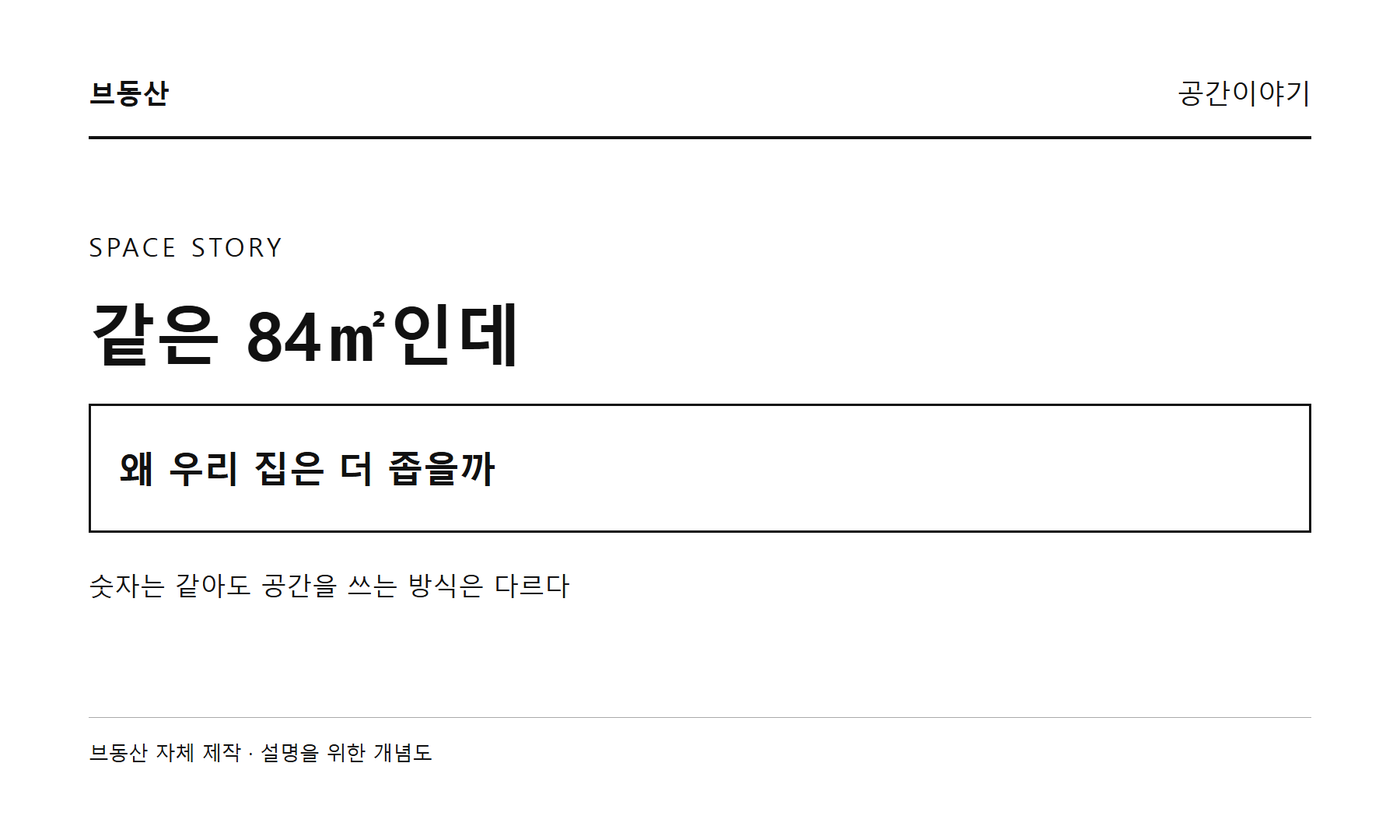
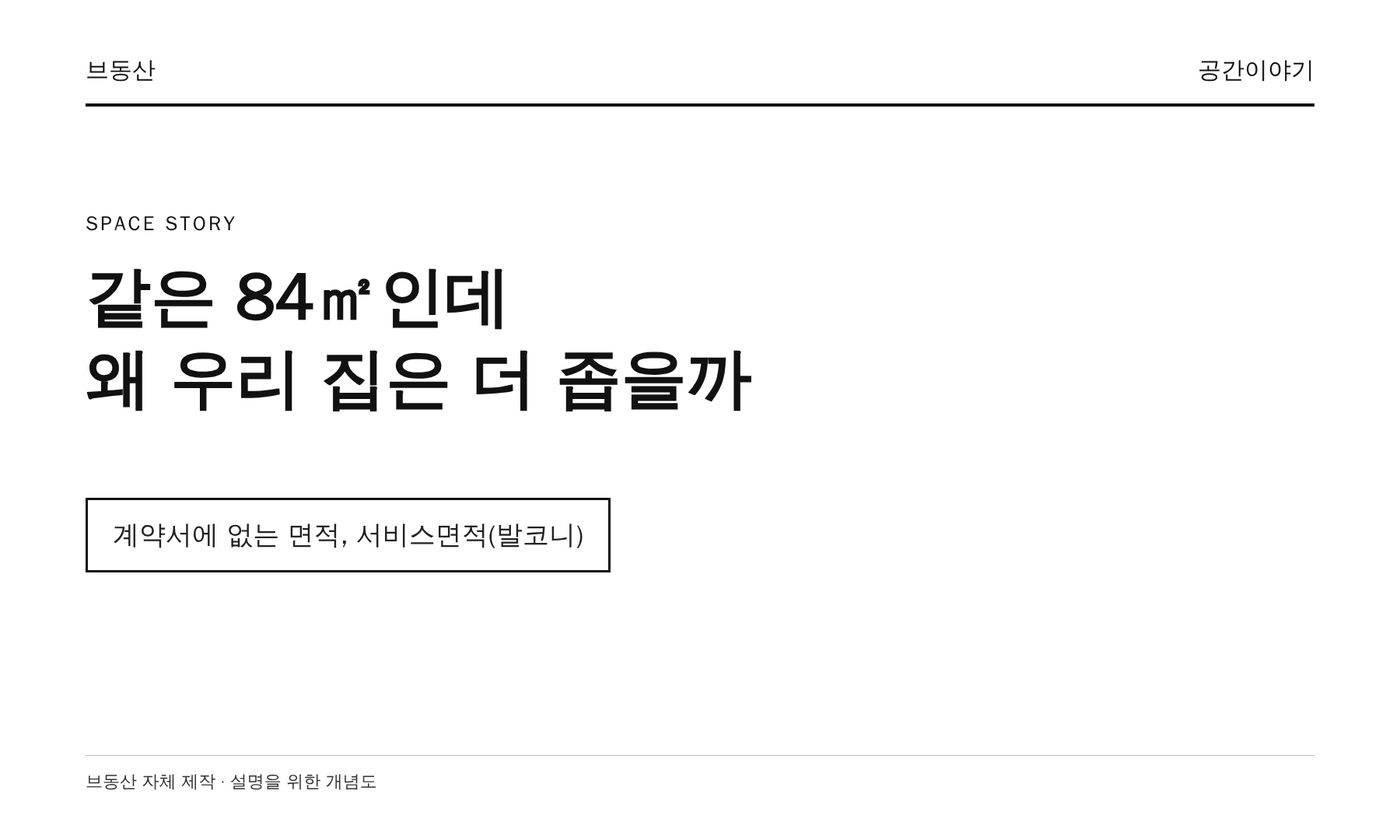
Rewrite same-84 space story around service area (balcony) and update Naver copy
Claude-Session: https://claude.ai/code/session_018qhGmvZYaq5WTE87hNjb3D

diff --git a/posts/same-84-different-space.html b/posts/same-84-different-space.html
@@ -1,4 +1,4 @@
-<!doctype html><html lang="ko"><head><meta charset="utf-8"><meta name="viewport" content="width=device-width,initial-scale=1"><meta name="google-adsense-account" content="ca-pub-2726871907348299"><link rel="canonical" href="https://www.brandongsan.com/posts/same-84-different-space.html"><meta property="og:type" content="article"><meta property="og:title" content="같은 84㎡인데 왜 우리 집은 더 좁을까"><meta property="og:image" content="https://www.brandongsan.com/posts/images/same-84-different-space/cover.png"><script async src="https://www.googletagmanager.com/gtag/js?id=G-7TD8E3J131"></script><script>window.dataLayer=window.dataLayer||[];function gtag(){dataLayer.push(arguments)}gtag('js',new Date());gtag('config','G-7TD8E3J131');</script><title>같은 84㎡인데 왜 우리 집은 더 좁을까 — 브동산</title><meta name="description" content="같은 84㎡도 다르게 느껴지는 이유를 전용면적, 발코니, 평면과 동선에서 살펴봅니다."><style>
+<!doctype html><html lang="ko"><head><meta charset="utf-8"><meta name="viewport" content="width=device-width,initial-scale=1"><meta name="google-adsense-account" content="ca-pub-2726871907348299"><link rel="canonical" href="https://www.brandongsan.com/posts/same-84-different-space.html"><meta property="og:type" content="article"><meta property="og:title" content="같은 84㎡인데 왜 우리 집은 더 좁을까"><meta property="og:image" content="https://www.brandongsan.com/posts/images/same-84-different-space/cover.png"><script async src="https://www.googletagmanager.com/gtag/js?id=G-7TD8E3J131"></script><script>window.dataLayer=window.dataLayer||[];function gtag(){dataLayer.push(arguments)}gtag('js',new Date());gtag('config','G-7TD8E3J131');</script><title>같은 84㎡인데 왜 우리 집은 더 좁을까 — 브동산</title><meta name="description" content="같은 전용 84㎡라도 계약서에 적히지 않는 서비스면적(발코니)에 따라 실제 쓰는 면적이 달라진다. 2면과 3면 발코니의 차이를 살펴본다."><style>
   @import url('https://fonts.googleapis.com/css2?family=Nanum+Gothic:wght@400;700;800&display=swap');
   :root{ --paper:#FFFFFF; --ink:#111111; --ink-soft:#555555; --ink-faint:#8A8A8A; --hair:#E3E3E3; --soft-bg:#FAFAFA; }
   *{ box-sizing:border-box; }
@@ -59,4 +59,34 @@
   .list-more{ margin-top:20px; text-align:center; }
   .btn-list{ display:inline-block; font-family:'Nanum Gothic'; font-weight:700; font-size:13px; color:var(--ink); border:1px solid var(--ink); padding:9px 20px; text-decoration:none; }
   @media(max-width:600px){ .summary-brief div{ grid-template-columns:1fr; gap:5px; padding:15px 2px; } .byline .tag{ margin-left:0; } }
-</style></head><body><div class="top-eyebrow"><div class="wrap"><a class="brand-mark" href="https://brandongsan.com/"><span class="bm-b">브</span><span class="bm-rest">동산</span></a><a class="list-btn" href="https://brandongsan.com/space-story.html">☰ 목록</a></div></div><div class="wrap"><div class="titleblock"><h1>같은 84㎡인데 왜 우리 집은 더 좁을까</h1></div><div class="byline"><span class="avatar">브</span><span class="who">서당개</span><span class="dot">·</span><span class="when">2026. 11. 5</span><span class="tag">공간이야기 No.002</span></div></div><div class="hairline"></div><div class="content"><div class="wrap"><div class="photo-block"><img src="images/same-84-different-space/cover.png" alt="브동산 자체 제작 표지"><div class="cap">브동산 자체 제작 표지</div></div><section><p class="lede">같은 84㎡라는데, 친구 집은 왜 우리 집보다 넓어 보일까? 평면도를 한 장씩 펼쳐 봤다.</p></section><section><h2>1. 같은 숫자가 같은 거실을 뜻할까</h2><p>친구 집도 우리 집도 84㎡. 그런데 식탁을 놓고 나니 우리 집이 더 비좁다. 같은 숫자인데 왜 다르게 느껴질까?</p><p>타입명만 보지 말고 모집공고의 정확한 전용면적을 보자. 84A와 84B의 소수점 아래 숫자가 다를 수 있다. 다만 작은 숫자 차이만으로 체감 차이를 전부 설명할 수는 없다.</p><div class="photo-block"><img src="images/same-84-different-space/area.png" alt="전용면적과 공급면적 관계를 나타낸 개념도. 공용면적은 실내 사용 면적이 아니다."><div class="cap">전용면적과 공급면적 관계를 나타낸 개념도. 공용면적은 실내 사용 면적이 아니다.</div></div></section><section><h2>2. 전용 84와 공급 84는 다른 말</h2><p>주택법 시행규칙은 공동주택의 주거전용면적을 외벽 내부선 기준으로 산정하고, 여러 세대가 함께 쓰는 공용면적을 제외한다. 세대 안의 복도와 건물의 공용 복도는 다르다.</p><p>공급면적은 보통 전용면적에 주거공용면적을 더한 숫자다. 같은 전용면적이어도 계단과 복도 등에 배분되는 주거공용면적에 따라 공급면적이 다를 수 있다. 그렇다고 공용면적 차이가 곧바로 실내 크기 차이가 되는 것은 아니다.</p><div class="photo-block"><img src="images/same-84-different-space/plan.png" alt="가상의 평면 배치 개념도. 실제 단지 도면이나 면적 비율이 아니다."><div class="cap">가상의 평면 배치 개념도. 실제 단지 도면이나 면적 비율이 아니다.</div></div></section><section><h2>3. 같은 면적도 나누는 방법이 다르다</h2><p>방과 거실, 욕실과 세대 내부 동선에 공간을 어떻게 배분하느냐에 따라 쓰임새가 달라진다. 복도가 길면 방을 지나지 않고 움직이기 편할 수 있지만, 거실 가구 배치에는 제약이 생길 수도 있다.</p><p>거실이 넓어 보이는 평면이 모두에게 좋은 것은 아니다. 방 크기와 독립성, 수납, 문을 열고 다니는 경로까지 가족의 생활 방식과 함께 살펴보자.</p><div class="photo-block"><img src="images/same-84-different-space/flow.png" alt="가상의 동선 개념도. 실제 평면이나 실측 데이터가 아니다."><div class="cap">가상의 동선 개념도. 실제 평면이나 실측 데이터가 아니다.</div></div></section><h3>실제 평면을 나란히 보면</h3><p>삼성물산 래미안 포레카운티의 84A와 84B는 모두 84㎡대지만 방과 거실, 주방의 배치가 다르다. 숫자가 같다고 같은 구조는 아니다. 아래는 공식 자료의 평면이며 옵션·발코니 구성과 동·호수에 따라 실제 시공은 다를 수 있다. 공용면적 차이를 실내 크기 차이로 해석하지 않는다.</p><div class="photo-block"><img src="images/same-84-different-space/raemian-84a.jpg" alt="래미안 포레카운티 84A 공식 평면도"><div class="cap">래미안 포레카운티 84A. 출처: 삼성물산 <a href="https://www.raemian.co.kr/sales/sub/jangwi1?menuSeq=3254">공식 평면정보</a>. 이미지의 저작권은 권리자에게 있다.</div></div><div class="photo-block"><img src="images/same-84-different-space/raemian-84b.jpg" alt="래미안 포레카운티 84B 공식 평면도"><div class="cap">래미안 포레카운티 84B. 출처: 삼성물산 공식 평면정보. 확장 옵션과 시공 범위는 별도 확인.</div></div><section><h2>4. 발코니 확장이 만드는 차이</h2><p>발코니를 확장한 집과 확장하지 않은 집은 전용면적 표기가 같아도 이용 공간의 구성과 체감이 다를 수 있다. 발코니 전체가 언제나 전용면적에서 제외된다거나, 확장하면 전부 전용면적에 더해진다고 말할 수는 없다.</p><p>바닥면적 산정은 법령의 기준과 예외, 설계도서에 따라 확인해야 한다. 계약 전 기본형과 확장형 도면, 선택 비용, 대피·설비 공간과 실제 시공 범위를 확인하자.</p><div class="photo-block"><img src="images/same-84-different-space/balcony.png" alt="확장 전후를 설명하는 가상 개념도. 법령상 면적 산정도나 시공 도면이 아니다."><div class="cap">확장 전후를 설명하는 가상 개념도. 법령상 면적 산정도나 시공 도면이 아니다.</div></div></section><section><h2>5. 평면도에서 꼭 볼 것</h2><p>숫자보다 중요한 것은 우리 집 가구와 생활이 그 안에 들어가는지다. 거실 폭과 침실 치수를 보고 소파·식탁·침대의 크기를 대입해 보자. 치수가 없으면 임의로 계산하지 말고 시행사에 확인한다.</p><p>창과 문, 붙박이장, 실외기실 및 대피 공간의 위치도 살핀다. 도면 속 가구는 이해를 돕는 표현일 수 있으므로 실제 가구 크기와 문이 열리는 범위를 별도로 재보는 편이 좋다.</p><div class="photo-block"><img src="images/same-84-different-space/checklist.png" alt="평면 확인 체크리스트. 단지별 도면과 계약 조건이 우선한다."><div class="cap">평면 확인 체크리스트. 단지별 도면과 계약 조건이 우선한다.</div></div></section><section><h2>결론: 숫자 하나보다 내 생활을 보자</h2><p>84㎡라는 숫자는 출발점이다. 정확한 전용면적에 더해 발코니의 확장 범위와 방의 배치, 가구가 놓일 자리까지 살펴보면 우리에게 맞는 집을 고르기가 조금 수월해진다.</p><p>직접 제작한 그림은 이해를 돕기 위한 가상의 개념도다. 특정 단지를 비교하거나 면적의 우열을 나타내지 않는다.</p><ul class="src"><li><a href="https://law.go.kr/lsLinkCommonInfo.do?chrClsCd=010202&lsJoLnkSeq=1017651793">주택법 시행규칙 제2조</a></li><li><a href="https://www.law.go.kr/lsLinkCommonInfo.do?lsJoLnkSeq=1030377409">주택공급에 관한 규칙 제21조</a></li><li><a href="https://law.go.kr/lsLinkCommonInfo.do?chrClsCd=010202&lspttninfSeq=105454">건축법 시행령 제119조</a></li><li><a href="https://www.law.go.kr/DRF/lawService.do?ID=341541&OC=unicpla&mobileYn=Y&target=expc&type=HTML">법제처 해석례 25-0224</a></li></ul></section><section id="related"><h2>공간이야기의 다른 포스팅</h2><div class="related-list"><p><a href="https://www.brandongsan.com/posts/balcony-story.html">우리 집 베란다는 어디로 사라졌을까</a> · 공간이야기 No.003</p><p><a href="https://www.brandongsan.com/posts/why-84-and-59-sqm.html">85도 60도 아닌 84와 59 — 국민평형 숫자는 어디서 나왔을까</a></p></div><div class="list-more"><a class="btn-list" href="https://brandongsan.com/space-story.html">공간이야기 목록 전체보기</a></div></section></div></div><footer><div class="wrap"><div class="hairline"></div><p>본 글은 공개 자료를 바탕으로 작성한 정보 제공 콘텐츠이며 투자 권유나 매수 대행이 아니다. 법령과 개별 도면·계약 조건은 변경될 수 있으므로 계약 전 원문 및 관계기관에서 확인해야 한다. 자체 제작 개념도 외 평면도 출처는 삼성물산이다.</p></div></footer></body></html>
+</style></head><body><div class="top-eyebrow"><div class="wrap"><a class="brand-mark" href="https://brandongsan.com/"><span class="bm-b">브</span><span class="bm-rest">동산</span></a><a class="list-btn" href="https://brandongsan.com/space-story.html">☰ 목록</a></div></div><div class="wrap"><div class="titleblock"><h1>같은 84㎡인데 왜 우리 집은 더 좁을까</h1></div><div class="byline"><span class="avatar">브</span><span class="who">서당개</span><span class="dot">·</span><span class="when">2026. 11. 5</span><span class="tag">공간이야기 No.002</span></div></div><div class="hairline"></div><div class="content"><div class="wrap"><div class="photo-block"><img src="images/same-84-different-space/cover.png" alt="같은 84㎡인데 왜 우리 집은 더 좁을까 표지" style="width:100%;display:block;"><div class="cap">브동산 자체 제작 표지</div></div>
+<section><p class="lede">같은 84㎡라는데 친구 집에 가면 왜 더 넓게 느껴질까? 이유는 가구도, 인테리어도 아닌 계약서에 적히지 않는 면적에 있었다.</p></section>
+<section><h2>1. 계약서에는 ‘전용 84, 공급 11x’만 적힌다</h2>
+<p>분양 공고문과 계약서에서 우리가 보는 면적은 전용면적, 공급면적, 계약면적이다. 전용면적은 세대 안에서 우리 가족이 독점해서 쓰는 면적이고, 공급면적은 여기에 계단·복도 같은 주거공용면적을 더한 값이다. 계약면적은 공급면적에 지하주차장 등 기타공용면적까지 더한 값이다.</p>
+<p>이 세 숫자 어디에도 발코니는 없다. 발코니는 전용면적에서 빠지고, 공급·계약면적에도 들어가지 않는다. 이 면적을 업계에서는 서비스면적이라 부른다. 이코노미스트의 2018년 기사는 서비스면적을 “분양계약서 어디에도 나타나지 않는 면적”이라고 설명한다.</p>
+<div class="photo-block"><img src="images/same-84-different-space/contract.png" alt="계약서에 적히는 면적과 적히지 않는 면적을 비교한 개념도" style="width:100%;display:block;"><div class="cap">계약서에 적히는 면적과 숫자로 적히지 않는 면적의 관계. 면적 비율은 임의다. 브동산 자체 제작.</div></div>
+<p>그래서 실제로 우리가 쓰는 면적은 <b>전용 84 + 서비스면적(발코니)</b>인데, 이 합계는 계약서 어디에서도 확인할 수 없다.</p></section>
+<section><h2>2. 발코니는 왜 면적에서 빠질까</h2>
+<p>건축법 시행령은 발코니를 건축물의 내부와 외부를 잇는 완충공간으로 정의하고, 기준에 맞는 주택의 발코니는 거실·침실·창고 등으로 쓸 수 있게 허용한다. 바닥면적을 셀 때는 발코니 같은 노대 면적에서 가장 긴 외벽 길이에 1.5m를 곱한 만큼을 빼서 계산한다. 자세한 산식은 <a href="https://www.brandongsan.com/posts/balcony-story.html">우리 집 베란다는 어디로 사라졌을까</a>에서 다뤘다.</p>
+<p>핵심은 발코니가 계약서의 면적 항목이 아니라는 점이다. 확장하면 방이나 거실처럼 쓸 수 있는데도 전용면적이 늘어나지는 않는다. 그래서 같은 전용 84㎡라도 발코니가 얼마나 있느냐에 따라 실제 쓰는 면적이 달라지고, 그 차이는 계약서의 숫자로는 비교되지 않는다.</p></section>
+<section><h2>3. 건설사가 발코니를 얼마나 확보하느냐</h2>
+<p>발코니 면적은 평면 설계가 정한다. 전면과 후면에만 발코니가 붙는 2면 구조가 있고, 여기에 측면을 하나 더해 발코니를 최대한 확보하는 3면 구조가 있다. 아파트 전면의 기둥과 기둥 사이를 뜻하는 베이(Bay) 수를 늘려도 집이 가로로 길어져 발코니 면적이 커진다. 이코노미스트는 베이 수를 늘리는 평면에는 설계 노하우가 필요하다고 짚었다.</p>
+<div class="photo-block"><img src="images/same-84-different-space/bay.png" alt="2면 발코니와 3면 발코니를 단순화한 가상 개념도" style="width:100%;display:block;"><div class="cap">평면 구조를 단순화한 가상 개념도. 점선 영역이 서비스면적(발코니)이다. 실제 평면과 면적 비율은 다르다. 브동산 자체 제작.</div></div>
+<p>데일리안은 2026년 8월 기사에서 3면 발코니를 적용하면 2면 구조보다 서비스면적이 더 많이 나온다고 설명했다. 같은 ‘84’라는 이름을 달고 있어도 설계에서부터 사는 공간이 달라지는 것이다.</p></section>
+<section><h2>4. 숫자로 보면 얼마나 다를까</h2>
+<p>기사에 나온 사례 수치를 모아 보면 다음과 같다.</p>
+<ul class="plain"><li>분양 상담에서 “84㎡형은 서비스면적만 40㎡ 정도”라는 설명을 들을 수 있다(이코노미스트, 2018).</li><li>동탄2신도시 KCC스위첸 84㎡형 B타입은 서비스면적이 50.5㎡로 전용면적의 60% 수준이라고 소개됐다(이코노미스트, 2018). 같은 기사는 대개 전용면적의 30~50%를 서비스면적으로 받을 수 있다고 정리했다.</li><li>고양 킨텍스 원시티 2블록의 3면 발코니 일부 84㎡ 타입은 서비스면적이 최대 57㎡(약 17평)이고, 광주 챔피언스시티 1차의 84㎡는 최대 54.39㎡(약 16평)라고 보도됐다(데일리안, 2026.8).</li></ul>
+<div class="photo-block"><img src="images/same-84-different-space/stack.png" alt="전용 84에 서비스면적 40과 57을 더한 막대 비교" style="width:100%;display:block;"><div class="cap">보도 사례 수치를 단순 합산한 설명용 그림. 서로 다른 단지의 수치이며 같은 단지 비교가 아니다. 브동산 자체 제작.</div></div>
+<p>단순 합산하면 서비스면적 40㎡ 사례는 약 124㎡, 57㎡ 사례는 약 141㎡다. 둘 다 계약서에는 ‘전용 84’로 적히지만 사는 면적은 약 17㎡, 평수로 5평쯤 차이가 난다. 3면 발코니의 84가 넓어 보이는 것이 아니라 실제로 더 넓다는 뜻이다.</p>
+<p>다만 이 수치는 분양 측 설명이 섞인 보도 사례이고 단지마다 다르다. 발코니가 전부 거실이나 방이 되는 것도 아니다. 대피공간이나 실외기실처럼 확장할 수 없는 부분은 남는다. 확장한 이후 기준의 최대치로 이해하는 편이 정확하다.</p></section>
+<section><h2>5. 서비스면적은 정말 공짜일까</h2>
+<p>면적 기준으로는 공짜처럼 보이지만 이코노미스트는 서비스면적의 비용이 분양가와 발코니 확장비에 사실상 반영된다고 설명한다. 발코니 확장비는 84㎡형 기준 800만~1,300만원 정도로 소개됐는데, 2018년 기사 수치라 현재 금액은 단지별 공고문에서 확인해야 한다.</p>
+<p>하나금융연구소의 2023년 보고서 「발코니의 경제학」은 발코니 면적을 15㎡에서 45㎡로 늘리면 집의 가치가 약 1억 4,500만원 오르는 효과가 있다고 추정했다(데일리안 인용). 서비스면적이 공짜가 아니라 값어치가 있는 면적이라는 시각이다.</p></section>
+<section><h2>6. 청약 전에 확인할 것</h2>
+<p>공고문의 면적표에는 서비스면적이 나오지 않는 경우가 많다. 그래서 다음 순서로 직접 확인하자.</p>
+<ul class="plain"><li>같은 84 타입이 2면인지 3면(또는 4Bay)인지 공식 평면도에서 확인한다.</li><li>분양 홈페이지와 카탈로그에 서비스면적이 표기돼 있는지, 없다면 시행사에 문의한다.</li><li>발코니 확장비와 확장 가능 범위, 확장할 수 없는 공간(대피공간·실외기실)을 확인한다.</li></ul>
+<p>같은 84를 비교할 때는 전용면적 옆에 서비스면적을 함께 적어 두고 보면 비교가 한결 정확해진다.</p></section>
+<section><h2>결론: 계약서의 84 말고 실제 쓰는 면적을 보자</h2>
+<p>전용 84는 같아도 발코니를 얼마나 확보했느냐에 따라 실제 쓰는 면적은 다르다. 그 차이는 계약서 어디에도 적히지 않아 대부분이 모르고 지나간다. 다음에 84㎡ 평면도를 볼 때는 전용 숫자 옆에 서비스면적이 얼마인지부터 확인해 보자.</p>
+<ul class="src"><li><a href="https://economist.co.kr/2018/01/28/stock/stockNormal/319837.html">이코노미스트 「서비스 면적은 공짜?」 (2018.1.28)</a></li><li><a href="https://www.dailian.co.kr/news/view/1680663">데일리안 「84㎡ 샀는데 16평이 덤」 (2026.8.23)</a></li><li><a href="https://law.go.kr/lsLinkCommonInfo.do?chrClsCd=010202&lsJoLnkSeq=1017651793">주택법 시행규칙 제2조</a></li><li><a href="https://law.go.kr/lsLinkCommonInfo.do?chrClsCd=010202&lspttninfSeq=105454">건축법 시행령 제119조</a></li></ul></section>
+<section id="related"><h2>공간이야기의 다른 포스팅</h2><div class="related-list"><p><a href="https://www.brandongsan.com/posts/balcony-story.html">우리 집 베란다는 어디로 사라졌을까</a> · 공간이야기 No.003</p><p><a href="https://www.brandongsan.com/posts/why-84-and-59-sqm.html">85도 60도 아닌 84와 59 — 국민평형 숫자는 어디서 나왔을까</a></p></div><div class="list-more"><a class="btn-list" href="https://brandongsan.com/space-story.html">공간이야기 목록 전체보기</a></div></section></div></div><footer><div class="wrap"><div class="hairline"></div><p>본 글은 공개 자료를 바탕으로 작성한 정보 제공 콘텐츠이며 투자 권유나 매수 대행이 아니다. 법령과 개별 도면·계약 조건은 변경될 수 있으므로 계약 전 원문 및 관계기관에서 확인해야 한다. 도식은 브동산 자체 제작이다.</p></div></footer></body></html>

diff --git a/naver-html/same-84-different-space.html b/naver-html/same-84-different-space.html
@@ -1,8 +1,8 @@
 <!doctype html><html lang="ko"><head><meta charset="utf-8"><meta name="robots" content="noindex,nofollow"><!--
 slug: same-84-different-space
-title: 같은 84㎡인데 왜 우리 집은 더 좁을까 | 평면과 발코니 살펴보기
+title: 같은 84㎡인데 왜 우리 집은 더 좁을까 | 계약서에 없는 서비스면적 이야기
 category: 공간
 naver_category: 공간이야기
-tags: 같은84,84평면,전용면적,공급면적,아파트평면도,발코니확장,아파트구조,아파트동선,평면비교,아파트인테리어,집고르기,공간이야기,부동산상식
+tags: 같은84,서비스면적,발코니확장,3면발코니,전용면적,공급면적,계약면적,4베이,아파트평면도,국민평형,아파트청약,공간이야기,부동산상식
 cover_candidates: cover.png
---><title>같은 84㎡인데 왜 우리 집은 더 좁을까 — 네이버 복사용</title><style>body{font-family:'Malgun Gothic',sans-serif;line-height:1.8;font-size:16px;color:#000000;max-width:720px;margin:auto;padding:24px}h1{font-size:26px}h2{font-size:21px}</style></head><body><p style="color:#000000;">브동산 · 서당개 · 공간이야기 No.002 · 2026. 11. 5</p><h1 style="color:#000000;">같은 84㎡인데 왜 우리 집은 더 좁을까 | 평면과 발코니 살펴보기</h1><p style="color:#000000;"><img src="https://www.brandongsan.com/posts/images/same-84-different-space/cover.png" alt="같은 84㎡의 공간 이야기 표지" style="width:100%;display:block;"></p><p style="color:#000000;font-size:13px;"><b style="color:#000000;">이미지 01 ·</b> 브동산 자체 제작 표지</p><p style="color:#000000;">소파를 놓을 땐 딱 맞았는데, 식탁까지 들이고 나니 지나다니기 답답하다. 분명 같은 84㎡라던 옆집은 어째서 더 여유로워 보일까?</p><p style="color:#000000;">집을 볼 때 숫자 하나만 기억하면 놓치기 쉬운 것들이 있다. 이번에는 집의 크기를 적은 숫자부터 가구가 놓이는 자리까지 차례로 살펴봤다.</p><p style="color:#000000;">&nbsp;</p><h2 style="color:#000000;">1. 먼저 숫자의 이름부터 확인하자</h2><p style="color:#000000;">집을 소개받을 때는 84라는 숫자 앞에 무엇이 붙었는지부터 물어보자. 전용면적과 공급면적은 같은 말이 아니다. 일반적으로 공급면적은 전용면적에 주거공용면적을 더한 값이다.</p><p style="color:#000000;">계단이나 공동 복도에 해당하는 주거공용면적이 달라지면 전용면적이 같더라도 공급면적은 달라질 수 있다. 공용 부분의 숫자가 더 크다고 해서 세대 안에서 쓸 수 있는 공간이 그만큼 넓어진다는 뜻은 아니다.</p><p style="color:#000000;"><img src="https://www.brandongsan.com/posts/images/same-84-different-space/area.png" alt="전용면적과 공급면적 관계를 나타낸 개념도. 공용면적은 실내 사용 면적이 아니다." style="width:100%;display:block;"></p><p style="color:#000000;font-size:13px;"><b style="color:#000000;">이미지 02 ·</b> 전용면적과 공급면적 관계를 나타낸 개념도. 공용면적은 실내 사용 면적이 아니다.</p><p style="color:#000000;">공동주택의 주거전용면적은 외벽의 내부선을 기준으로 산정하며, 둘 이상의 세대가 함께 사용하는 공용 부분은 제외한다. 집 안에 있는 복도와 이웃과 함께 쓰는 복도도 구별해야 한다. 근거는 주택법 시행규칙 제2조다.</p><p style="color:#000000;">&nbsp;</p><h2 style="color:#000000;">2. 84A와 84B를 볼 때 놓치기 쉬운 것</h2><p style="color:#000000;">같은 84라는 이름이 붙은 타입이라도 모집공고에 적힌 전용면적의 소수점 이하는 서로 다를 수 있다. 우선 각각의 정확한 숫자를 나란히 확인하자. 다만 소수점 차이만으로 생활하면서 느끼는 넓이의 차이를 모두 설명할 수는 없다.</p><p style="color:#000000;">다음에는 방과 거실이 어디에 놓였는지 보자. 같은 크기의 면적 안에서도 공간을 나누는 방법은 여러 가지다. 아래 그림은 그 차이를 이해하기 위한 가상의 예시일 뿐, 특정 아파트의 평면을 비교한 것은 아니다.</p><p style="color:#000000;"><img src="https://www.brandongsan.com/posts/images/same-84-different-space/plan.png" alt="가상의 평면 배치 개념도. 실제 단지 도면이나 면적 비율이 아니다." style="width:100%;display:block;"></p><p style="color:#000000;font-size:13px;"><b style="color:#000000;">이미지 03 ·</b> 가상의 평면 배치 개념도. 실제 단지 도면이나 면적 비율이 아니다.</p><p style="color:#000000;">&nbsp;</p><h2 style="color:#000000;">3. 집 안을 한 바퀴 걸어보자</h2><p style="color:#000000;">도면 위에 현관에서 거실로, 거실에서 각 방으로 움직이는 길을 그려 보면 어떨까. 방을 지나지 않고 오갈 수 있는 복도는 사생활에 도움이 될 수 있다. 반면 지나갈 자리를 남겨야 하므로 가구를 둘 수 있는 위치는 달라질 수 있다.</p><p style="color:#000000;">무조건 복도가 짧은 집이나 거실이 커 보이는 집이 정답인 것은 아니다. 누가 어떤 방을 쓰는지, 수납이 얼마나 필요한지, 문을 열었을 때 서로 부딪히지 않는지에 따라 편한 구조가 달라진다.</p><p style="color:#000000;"><img src="https://www.brandongsan.com/posts/images/same-84-different-space/flow.png" alt="가상의 동선 개념도. 실제 평면이나 실측 데이터가 아니다." style="width:100%;display:block;"></p><p style="color:#000000;font-size:13px;"><b style="color:#000000;">이미지 04 ·</b> 가상의 동선 개념도. 실제 평면이나 실측 데이터가 아니다.</p><p style="color:#000000;">&nbsp;</p><h2 style="color:#000000;">4. 창가 쪽을 볼 때는 확장 여부도 함께</h2><p style="color:#000000;">평면을 비교할 때 기본형과 확장형을 섞어 놓으면 인상이 달라질 수 있다. 전용면적 표기가 같은 집이라도 발코니를 어떻게 사용하고 확장했는지에 따라 이용 공간의 구성과 체감이 달라질 수 있어서다.</p><p style="color:#000000;">여기서 한 가지 주의할 점. 발코니가 모두 전용면적에서 빠진다거나, 확장한 면적이 모두 전용면적에 더해진다고 한마디로 정리할 수는 없다. 바닥면적 산정의 법령상 기준과 예외, 해당 설계도서를 살펴야 한다.</p><p style="color:#000000;"><img src="https://www.brandongsan.com/posts/images/same-84-different-space/balcony.png" alt="확장 전후를 설명하는 가상 개념도. 법령상 면적 산정도나 시공 도면이 아니다." style="width:100%;display:block;"></p><p style="color:#000000;font-size:13px;"><b style="color:#000000;">이미지 05 ·</b> 확장 전후를 설명하는 가상 개념도. 법령상 면적 산정도나 시공 도면이 아니다.</p><p style="color:#000000;">실제로 계약할 때는 확장형 도면뿐 아니라 옵션 비용과 시공 범위, 대피 공간과 설비 공간도 확인해 두자. 가능한 구조 변경의 범위는 해당 주택의 조건과 관련 기준에 따라 다르다.</p><p style="color:#000000;">&nbsp;</p><h2 style="color:#000000;">5. 마지막은 우리 집 가구로 확인하기</h2><p style="color:#000000;">마음에 드는 도면을 찾았다면 소파와 식탁, 침대가 들어갈 자리를 먼저 짚어 보자. 거실과 방의 치수가 있으면 실제 가구 크기를 대입하고, 치수가 빠져 있다면 추정하지 말고 시행사에 문의하는 편이 낫다.</p><p style="color:#000000;">문을 여닫을 공간과 창의 위치, 붙박이장, 실외기실과 대피 공간도 함께 살펴보자. 도면에 그려진 가구 모양만 보고 실제 가구가 꼭 들어갈 것이라고 판단하지 않는 것이 좋다.</p><p style="color:#000000;"><img src="https://www.brandongsan.com/posts/images/same-84-different-space/checklist.png" alt="평면 확인 체크리스트. 단지별 도면과 계약 조건이 우선한다." style="width:100%;display:block;"></p><p style="color:#000000;font-size:13px;"><b style="color:#000000;">이미지 06 ·</b> 평면 확인 체크리스트. 단지별 도면과 계약 조건이 우선한다.</p><p style="color:#000000;">결국 같은 84㎡를 볼 때 필요한 질문은 “어느 쪽이 더 넓지?”에서 한 걸음 더 나아간다. “우리 가족의 생활이 어느 쪽에 더 잘 맞지?”까지 물어보는 것이다.</p><p style="color:#000000;">이 글의 그림은 이해를 돕기 위한 가상 개념도다. 특정 단지의 실제 도면이나 면적 비율을 나타내지 않으며, 실제 비교는 모집공고와 해당 타입의 공식 도면을 기준으로 해야 한다.</p><p style="color:#000000;"><b style="color:#000000;">자료 출처</b></p><p style="color:#000000;"><a style="color:#000000;" href="https://law.go.kr/lsLinkCommonInfo.do?chrClsCd=010202&lsJoLnkSeq=1017651793">주택법 시행규칙 제2조</a></p><p style="color:#000000;"><a style="color:#000000;" href="https://www.law.go.kr/lsLinkCommonInfo.do?lsJoLnkSeq=1030377409">주택공급에 관한 규칙 제21조</a></p><p style="color:#000000;"><a style="color:#000000;" href="https://law.go.kr/lsLinkCommonInfo.do?chrClsCd=010202&lspttninfSeq=105454">건축법 시행령 제119조</a></p><p style="color:#000000;"><a style="color:#000000;" href="https://www.law.go.kr/DRF/lawService.do?ID=341541&OC=unicpla&mobileYn=Y&target=expc&type=HTML">법제처 해석례 25-0224</a></p><p style="color:#000000;">법령과 실제 계약 조건은 변경될 수 있으므로 입주자모집공고, 설계도서와 관계기관을 통해 확인해야 한다.</p></body></html>
+--><title>같은 84㎡인데 왜 우리 집은 더 좁을까 | 계약서에 없는 서비스면적 이야기 — 네이버 복사용</title><style>body{font-family:'Malgun Gothic',sans-serif;line-height:1.8;font-size:16px;color:#000000;max-width:720px;margin:auto;padding:24px}h1{font-size:26px}h2{font-size:21px}</style></head><body><p style="color:#000000;">브동산 · 서당개 · 공간이야기 No.002 · 2026. 11. 5</p><h1 style="color:#000000;">같은 84㎡인데 왜 우리 집은 더 좁을까 | 계약서에 없는 서비스면적 이야기</h1><p style="color:#000000;"><img src="https://www.brandongsan.com/posts/images/same-84-different-space/cover.png" alt="같은 84㎡의 서비스면적 이야기 표지" style="width:100%;display:block;"></p><p style="color:#000000;font-size:13px;"><b style="color:#000000;">이미지 01 ·</b> 브동산 자체 제작 표지</p><p style="color:#000000;">친구 집에 놀러 갔더니 우리 집과 똑같이 84㎡인데도 훨씬 시원하게 트여 있다. 도면에 적힌 숫자는 같은데 이런 차이는 어디서 생길까?</p><p style="color:#000000;">답은 계약서에 적히지 않는 면적에 있다. 이번에는 전용면적 옆에 따라붙는 서비스면적, 바로 발코니 이야기를 정리했다.</p><p style="color:#000000;">&nbsp;</p><h2 style="color:#000000;">1. 계약서에는 전용 84와 공급면적만 나온다</h2><p style="color:#000000;">분양 공고문과 계약서에서 볼 수 있는 숫자는 전용면적, 공급면적, 계약면적 세 가지다. 전용면적은 우리 가족이 오롯이 쓰는 세대 안쪽의 면적이다. 여기에 계단·복도 같은 주거공용면적을 더하면 공급면적이 되고, 지하주차장 등 기타공용면적까지 더하면 계약면적이 된다.</p><p style="color:#000000;">그런데 이 세 숫자에는 발코니가 한 칸도 들어가지 않는다. 발코니는 전용면적에서도, 공급·계약면적에서도 빠진다. 이렇게 빠지는 면적을 서비스면적이라고 부른다. 이코노미스트(2018)는 서비스면적을 분양계약서 어디에도 나타나지 않는 면적이라고 소개했다.</p><p style="color:#000000;"><img src="https://www.brandongsan.com/posts/images/same-84-different-space/contract.png" alt="계약서에 적히는 면적과 적히지 않는 면적을 비교한 개념도" style="width:100%;display:block;"></p><p style="color:#000000;font-size:13px;"><b style="color:#000000;">이미지 02 ·</b> 계약서에 적히는 면적과 숫자로 적히지 않는 면적의 관계. 면적 비율은 임의다.</p><p style="color:#000000;">정리하면 우리가 실제로 쓰는 면적은 전용 84에 서비스면적을 더한 값이다. 하지만 이 합계는 어느 서류에서도 찾을 수 없다.</p><p style="color:#000000;">&nbsp;</p><h2 style="color:#000000;">2. 발코니는 왜 면적 숫자에서 빠졌을까</h2><p style="color:#000000;">건축법 시행령은 발코니를 집 안과 밖 사이의 완충공간으로 본다. 기준에 맞으면 거실이나 침실, 창고로 쓰는 것도 허용한다. 바닥면적을 계산할 때도 노대 면적에서 가장 긴 외벽 길이에 1.5m를 곱한 만큼을 덜어낸다. 이 산식은 브동산의 「우리 집 베란다는 어디로 사라졌을까」에 따로 정리해 두었다.</p><p style="color:#000000;">중요한 건 확장해서 방처럼 써도 전용면적 숫자는 그대로라는 점이다. 그러니 같은 전용 84㎡끼리 놓고 봐도 발코니가 큰 집과 작은 집은 실제 쓰는 공간이 달라진다. 그 차이는 계약서만 봐서는 알 길이 없다.</p><p style="color:#000000;">&nbsp;</p><h2 style="color:#000000;">3. 같은 84라도 발코니는 설계가 정한다</h2><p style="color:#000000;">발코니가 전면과 후면에만 붙은 2면 구조가 있고, 측면에도 하나 더 낸 3면 구조가 있다. 아파트 전면에서 기둥과 기둥 사이를 세는 단위인 베이(Bay) 수를 늘려도 집이 옆으로 길어지면서 발코니가 커진다. 이코노미스트는 이런 평면에는 설계 노하우가 필요하다고 덧붙였다.</p><p style="color:#000000;"><img src="https://www.brandongsan.com/posts/images/same-84-different-space/bay.png" alt="2면 발코니와 3면 발코니를 단순화한 가상 개념도" style="width:100%;display:block;"></p><p style="color:#000000;font-size:13px;"><b style="color:#000000;">이미지 03 ·</b> 평면 구조를 단순화한 가상 개념도. 점선 영역이 서비스면적(발코니)이다. 실제 평면과 면적 비율은 다르다.</p><p style="color:#000000;">데일리안(2026.8)도 3면 발코니를 적용하면 2면 구조보다 서비스면적이 더 생긴다고 전했다. 이름은 똑같이 84여도 설계 단계에서 이미 사는 공간이 갈린다는 이야기다.</p><p style="color:#000000;">&nbsp;</p><h2 style="color:#000000;">4. 기사 속 사례를 숫자로 옮겨 보면</h2><p style="color:#000000;">보도에 나온 서비스면적 사례는 다음과 같다.</p><p style="color:#000000;">· 분양 상담에서 “84㎡형은 서비스면적만 40㎡ 정도”라고 안내하는 경우가 있다(이코노미스트, 2018).</p><p style="color:#000000;">· 동탄2신도시 KCC스위첸 84㎡형 B타입은 서비스면적이 50.5㎡로, 전용면적의 60% 수준으로 소개됐다. 같은 기사는 보통 전용면적의 30~50%를 서비스면적으로 받을 수 있다고 정리했다.</p><p style="color:#000000;">· 고양 킨텍스 원시티 2블록의 3면 발코니 일부 84㎡ 타입은 최대 57㎡(약 17평), 광주 챔피언스시티 1차 84㎡는 최대 54.39㎡(약 16평)로 보도됐다(데일리안, 2026.8).</p><p style="color:#000000;"><img src="https://www.brandongsan.com/posts/images/same-84-different-space/stack.png" alt="전용 84에 서비스면적 40과 57을 더한 막대 비교" style="width:100%;display:block;"></p><p style="color:#000000;font-size:13px;"><b style="color:#000000;">이미지 04 ·</b> 보도 사례 수치를 단순 합산한 설명용 그림. 서로 다른 단지의 수치이며 같은 단지 비교가 아니다.</p><p style="color:#000000;">이 사례들을 그대로 더하면 서비스면적 40㎡일 때 약 124㎡, 57㎡일 때 약 141㎡다. 계약서에는 둘 다 전용 84로 적히지만 쓰는 면적은 17㎡, 평수로 5평쯤 벌어진다. 3면 발코니의 84가 넓어 보이는 정도가 아니라 실제로 더 넓은 이유다.</p><p style="color:#000000;">단, 단지와 타입마다 다르고 분양 측 설명이 섞인 수치다. 대피공간이나 실외기실처럼 확장이 안 되는 곳도 남아서 발코니 전부가 거실이 되는 것은 아니다. 확장을 마쳤을 때의 최대치로 이해하는 편이 맞다.</p><p style="color:#000000;">&nbsp;</p><h2 style="color:#000000;">5. 서비스면적은 정말 덤일까</h2><p style="color:#000000;">이코노미스트는 서비스면적의 값이 분양가와 발코니 확장비에 사실상 들어가 있다고 풀이한다. 확장비는 84㎡형 기준 800만~1,300만원 정도로 소개됐다. 2018년 기사 수치이므로 현재 금액은 단지별 공고문으로 확인해야 한다.</p><p style="color:#000000;">하나금융연구소가 2023년에 낸 「발코니의 경제학」은 발코니를 15㎡에서 45㎡로 늘리면 집값에 약 1억 4,500만원의 효과가 있다고 추정했다(데일리안 인용). 서비스면적은 덤이 아니라 값어치가 있는 면적이라는 얘기다.</p><p style="color:#000000;">&nbsp;</p><h2 style="color:#000000;">6. 청약하기 전에 확인할 세 가지</h2><p style="color:#000000;">공고문의 면적표에는 서비스면적이 없는 경우가 많다. 그러니 직접 찾아봐야 한다.</p><p style="color:#000000;">· 같은 84 타입이 2면인지, 3면이나 4베이인지 공식 평면도로 확인하기</p><p style="color:#000000;">· 분양 홈페이지나 카탈로그에 서비스면적이 적혀 있는지 보고, 없으면 시행사에 문의하기</p><p style="color:#000000;">· 발코니 확장비와 확장 가능한 범위, 확장이 안 되는 공간 확인하기</p><p style="color:#000000;">같은 84끼리 비교할 때는 전용면적 옆에 서비스면적을 같이 적어 두면 비교가 훨씬 정확해진다. 다음에 84㎡ 평면도를 열면 전용 숫자 다음으로 서비스면적부터 찾아보자.</p><p style="color:#000000;"><b style="color:#000000;">자료 출처</b></p><p style="color:#000000;"><a style="color:#000000;" href="https://economist.co.kr/2018/01/28/stock/stockNormal/319837.html">이코노미스트 「서비스 면적은 공짜?」(2018.1.28)</a></p><p style="color:#000000;"><a style="color:#000000;" href="https://www.dailian.co.kr/news/view/1680663">데일리안 「84㎡ 샀는데 16평이 덤」(2026.8.23)</a></p><p style="color:#000000;"><a style="color:#000000;" href="https://law.go.kr/lsLinkCommonInfo.do?chrClsCd=010202&lsJoLnkSeq=1017651793">주택법 시행규칙 제2조</a></p><p style="color:#000000;"><a style="color:#000000;" href="https://law.go.kr/lsLinkCommonInfo.do?chrClsCd=010202&lspttninfSeq=105454">건축법 시행령 제119조</a></p><p style="color:#000000;">본 글은 공개 자료를 바탕으로 한 정보 제공 콘텐츠이며 투자 권유나 매수 대행이 아닙니다. 법령과 개별 단지의 도면·계약 조건은 달라질 수 있으므로 입주자모집공고와 관계기관에서 확인해야 합니다. 그림은 브동산 자체 제작 개념도입니다.</p></body></html>

diff --git a/posts-data.js b/posts-data.js
@@ -29,7 +29,7 @@ const POSTS = [
   { id: "wangsuk-hanshin-theh-centum", category: "realestate", region: "경기", tag: "청약 언박싱 No.091", title: "경기 - 왕숙 한신더휴 센텀 | 분양가 공개 전, 확인된 정보와 청약 체크포인트", date: "2026-11-05", dateLabel: "2026. 11. 5", url: "posts/wangsuk-hanshin-theh-centum.html", preview: "<p>왕숙 A-17블록의 공공분양 계획과 모집공고 전 확인사항을 살펴본다.</p>" },
   { id: "songdo-the-sharp-granter-g5-6-musunwi", category: "realestate", region: "인천", tag: "청약 언박싱 No.092", title: "인천 - 더샵 송도그란테르 G5-6블록 | 무순위 118K 1세대, 분양가·청약조건 정리", date: "2026-11-05", dateLabel: "2026. 11. 5", url: "posts/songdo-the-sharp-granter-g5-6-musunwi.html", preview: "<p>송도그란테르 G5-6블록 무순위 1세대의 공급금액과 신청 조건을 살펴본다.</p>" },
   { id: "balcony-story", category: "space", tag: "공간이야기 No.003", title: "우리 집 베란다는 어디로 사라졌을까", date: "2026-11-05", dateLabel: "2026. 11. 5", url: "posts/balcony-story.html", preview: `<p>예전 집에는 빨래도 널고 화분도 두던 베란다가 있었다. 요즘 집에서는 그 자리가 거실이 된 것 같다. 우리 집 베란다는 어디로 사라졌을까?</p>` },
-  { id: "same-84-different-space", category: "space", tag: "공간이야기 No.002", title: "같은 84㎡인데 왜 우리 집은 더 좁을까", date: "2026-11-05", dateLabel: "2026. 11. 5", url: "posts/same-84-different-space.html", preview: `<p>같은 84㎡라는데, 친구 집은 왜 우리 집보다 넓어 보일까? 평면도를 한 장씩 펼쳐 봤다.</p>` },
+  { id: "same-84-different-space", category: "space", tag: "공간이야기 No.002", title: "같은 84㎡인데 왜 우리 집은 더 좁을까", date: "2026-11-05", dateLabel: "2026. 11. 5", url: "posts/same-84-different-space.html", preview: `<p>같은 84㎡라는데 친구 집에 가면 왜 더 넓게 느껴질까? 이유는 계약서에 적히지 않는 면적에 있었다.</p>` },
   {
     id: "songdo-logebien-moaelgaa",
     category: "realestate",
